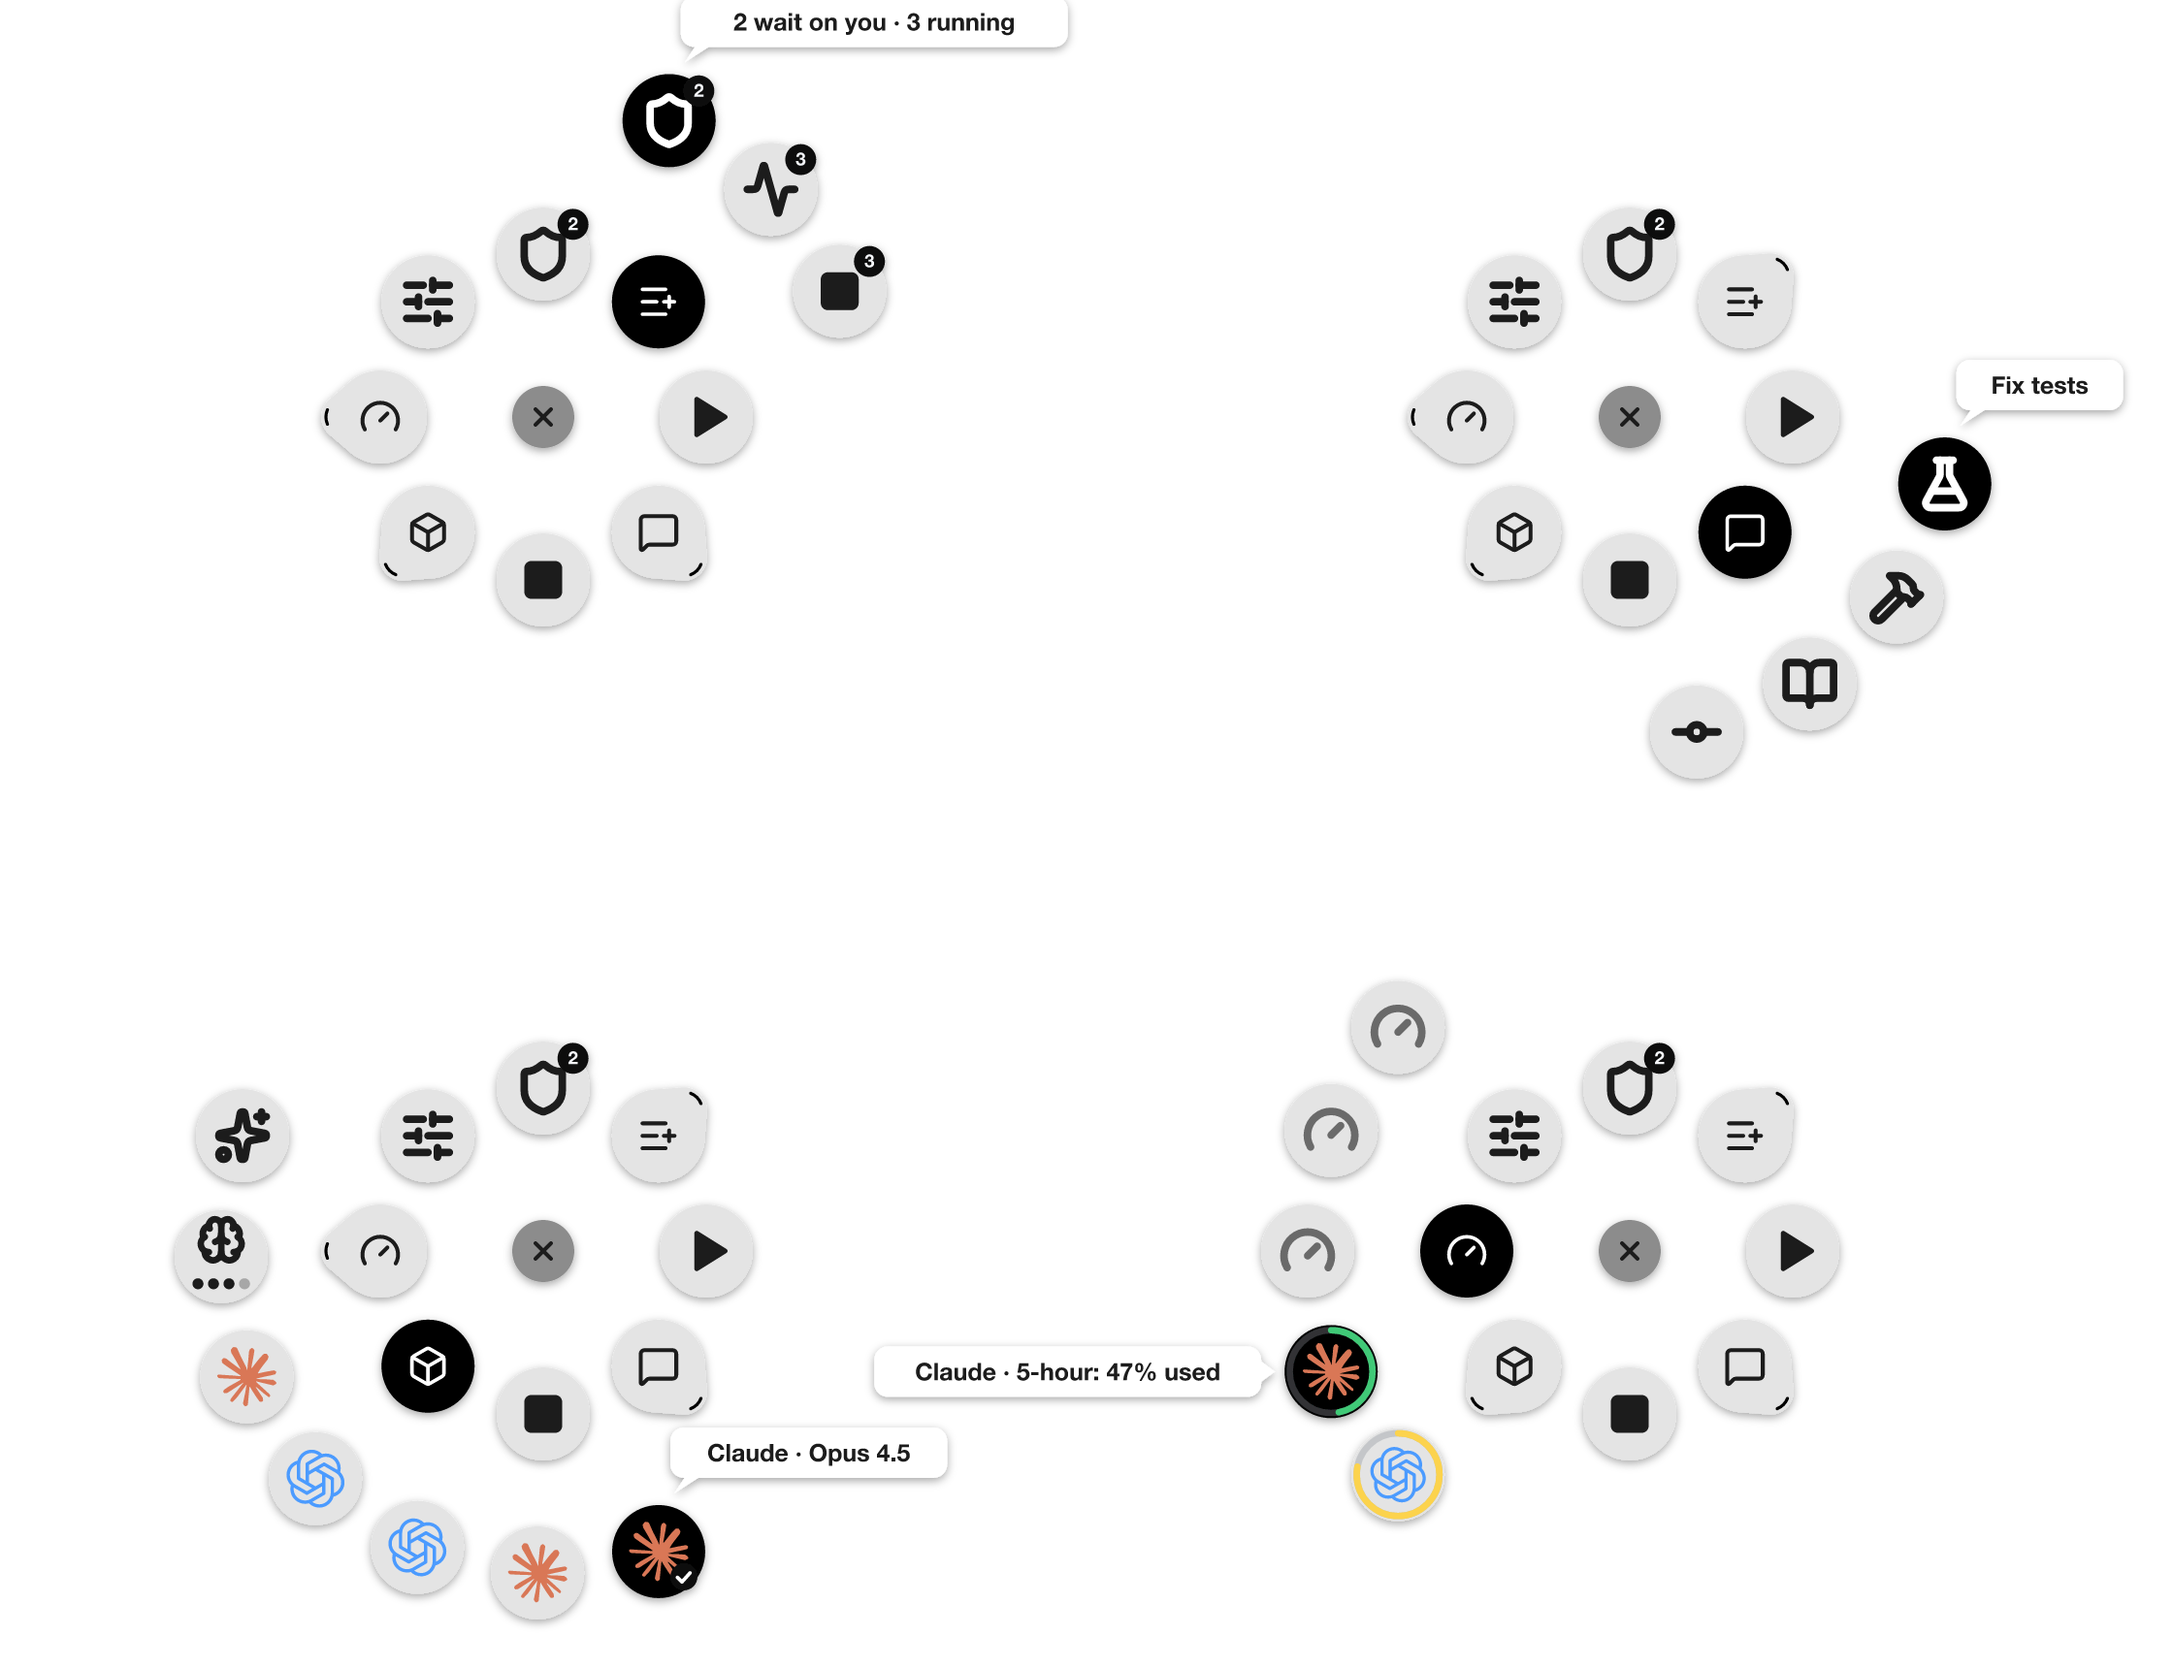
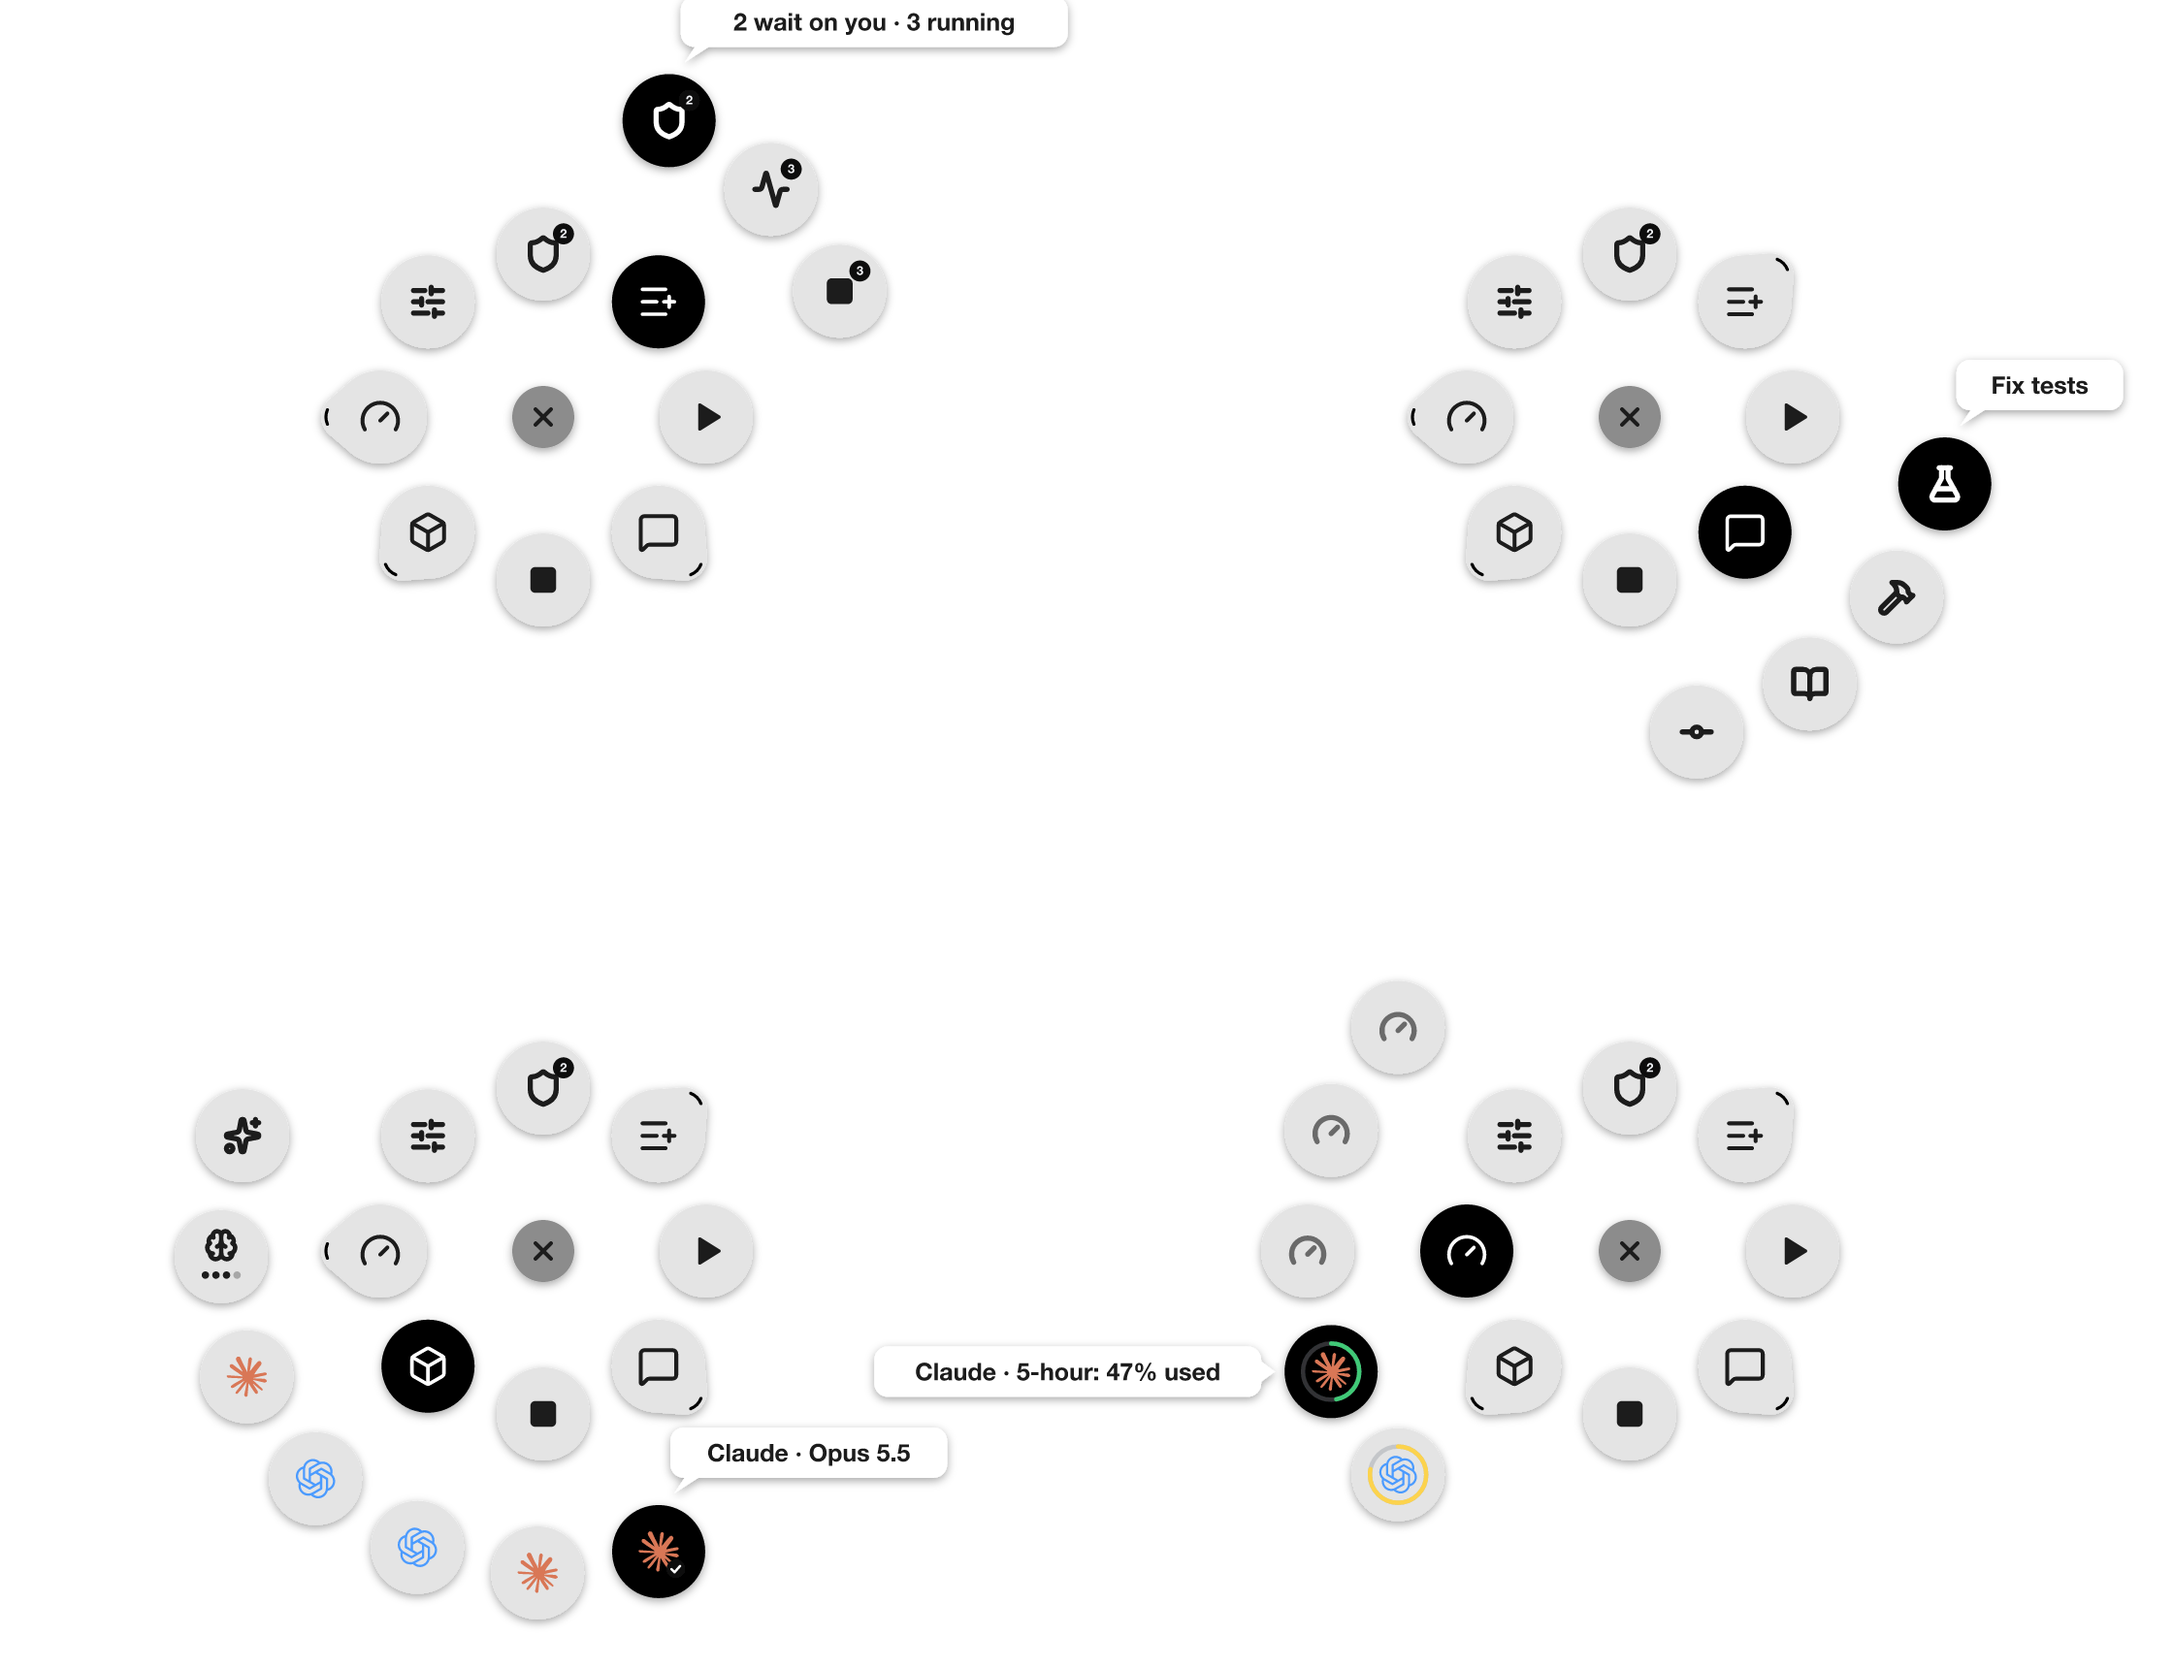
docs: the README's ring images inset faces as Options+ does, and hover Opus 5.5

diff --git a/README.md b/README.md
@@ -81,7 +81,7 @@ You need Logi Options+ with an MX mouse or keyboard for the Actions Ring (haptic
 2. **Pair.** In Options+, Turnkey's actions show a **Pair with T3 Code** banner. It opens a Turnkey Settings page on this computer: paste a pair link from T3 Code's **Settings → Sharing & access** and press **Connect**.
 3. **Pick the ring.** In Options+, add T3 Code to the Actions Ring and choose the **Default** profile: Turnkey's ring, folders and all. Rearrange it, or drag Turnkey's actions onto any other profile. **Turnkey Settings** brings the settings page back later, to add machines, re-pair or switch haptics off.
 
-<img src="docs/readme/ring-folders.png" alt="Turnkey's Actions Ring for T3 Code with each folder open: Threads (waiting on you, running, stop all, hovered: 2 wait on you · 3 running), Prompts (Fix tests, Diagnose, Explain, Commit), Models (five picker models with the current one checked, then effort and access, hovered: Claude · Opus 4.5) and Limits (each provider's tightest limit, hovered: Claude · 5-hour: 47% used)" width="100%">
+<img src="docs/readme/ring-folders.png" alt="Turnkey's Actions Ring for T3 Code with each folder open: Threads (waiting on you, running, stop all, hovered: 2 wait on you · 3 running), Prompts (Fix tests, Diagnose, Explain, Commit), Models (five picker models with the current one checked, then effort and access, hovered: Claude · Opus 5.5) and Limits (each provider's tightest limit, hovered: Claude · 5-hour: 47% used)" width="100%">
 
 The [guide](docs/guide.md) covers every action, the settings window, profiles, extra access and known limits.
 
